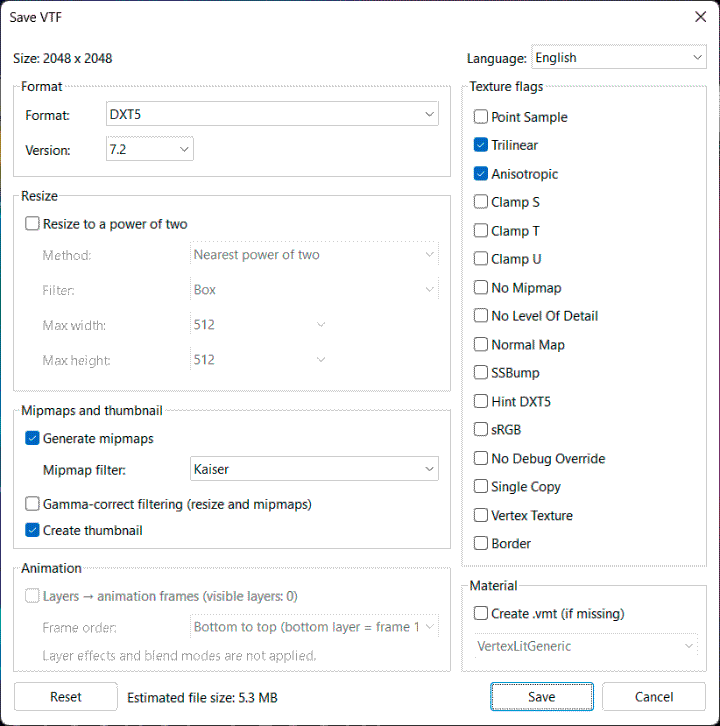
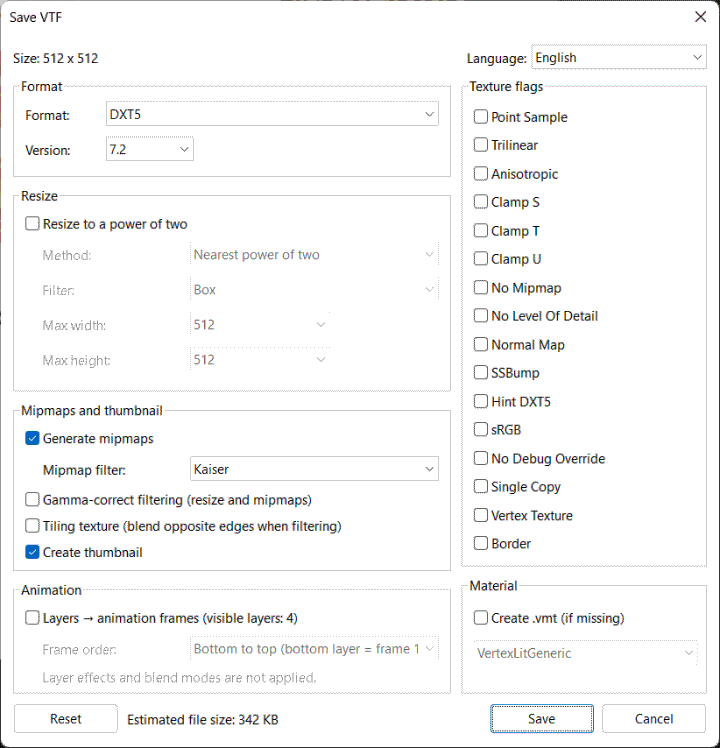
VTFBridge 1.1.1: clamp edges by default, Tiling texture option

diff --git a/src/VTFBridgeUI.cpp b/src/VTFBridgeUI.cpp
@@ -243,6 +243,7 @@ void UpdateEnabled(HWND dlg, const DialogState* st) {
     EnableWindow(GetDlgItem(dlg, IDC_MIPFILTER), mips);
     EnableWindow(GetDlgItem(dlg, IDC_LBL_MIPFILTER), mips);
     EnableWindow(GetDlgItem(dlg, IDC_GAMMA), mips || resize);
+    EnableWindow(GetDlgItem(dlg, IDC_TILING), mips || resize);
 
     // A normal map / SSBump is not a material of its own: no .vmt for it.
     bool bump = false;
@@ -284,7 +285,7 @@ void UpdateTips(DialogState* st, HWND dlg) {
             ti.uId = reinterpret_cast<UINT_PTR>(GetDlgItem(dlg, IDC_FLAG_FIRST + i));
             SendMessageW(st->tooltip, TTM_DELTOOLW, 0, reinterpret_cast<LPARAM>(&ti));
         }
-        for (int id : {IDC_VMT, IDC_SHADER}) {
+        for (int id : {IDC_VMT, IDC_SHADER, IDC_TILING}) {
             TOOLINFOW ti = {};
             ti.cbSize = sizeof(ti);
             ti.hwnd = dlg;
@@ -293,9 +294,10 @@ void UpdateTips(DialogState* st, HWND dlg) {
         }
     }
     st->tipTexts.clear();
-    st->tipTexts.reserve(kFlagCount + 2);  // no reallocation: tools point into the strings
+    st->tipTexts.reserve(kFlagCount + 3);  // no reallocation: tools point into the strings
     for (int i = 0; i < kFlagCount; ++i) AddTip(st, dlg, IDC_FLAG_FIRST + i, lang::T(FlagTipKey(kFlags[i].key).c_str()));
     AddTip(st, dlg, IDC_VMT, lang::T("tip.vmt"));
+    AddTip(st, dlg, IDC_TILING, lang::T("tip.tiling"));
     AddTip(st, dlg, IDC_SHADER, lang::T("tip.shader"));
 }
 
@@ -315,6 +317,7 @@ void ApplyTexts(HWND dlg, DialogState* st) {
     SetDlgItemTextW(dlg, IDC_MIPMAPS, lang::T("dlg.mipmaps").c_str());
     SetDlgItemTextW(dlg, IDC_LBL_MIPFILTER, lang::T("dlg.mip_filter").c_str());
     SetDlgItemTextW(dlg, IDC_GAMMA, lang::T("dlg.gamma").c_str());
+    SetDlgItemTextW(dlg, IDC_TILING, lang::T("dlg.tiling").c_str());
     SetDlgItemTextW(dlg, IDC_THUMB, lang::T("dlg.thumb").c_str());
     SetDlgItemTextW(dlg, IDC_GRP_FLAGS, lang::T("dlg.group_flags").c_str());
     SetDlgItemTextW(dlg, IDC_GRP_ANIM, lang::T("dlg.group_anim").c_str());
@@ -387,6 +390,7 @@ void Fill(HWND dlg, const DialogState* st, const vtf::Options& opt) {
     CheckDlgButton(dlg, IDC_MIPMAPS, opt.mipmaps ? BST_CHECKED : BST_UNCHECKED);
     SendDlgItemMessageW(dlg, IDC_MIPFILTER, CB_SETCURSEL, opt.mipFilter, 0);
     CheckDlgButton(dlg, IDC_GAMMA, opt.gammaFilter ? BST_CHECKED : BST_UNCHECKED);
+    CheckDlgButton(dlg, IDC_TILING, opt.tiling ? BST_CHECKED : BST_UNCHECKED);
     CheckDlgButton(dlg, IDC_THUMB, opt.thumbnail ? BST_CHECKED : BST_UNCHECKED);
     for (int i = 0; i < kFlagCount; ++i)
         CheckDlgButton(dlg, IDC_FLAG_FIRST + i, (opt.flags & kFlags[i].flag) ? BST_CHECKED : BST_UNCHECKED);
@@ -418,6 +422,7 @@ void Collect(HWND dlg, vtf::Options& opt) {
     i = ComboSel(dlg, IDC_MIPFILTER);
     if (i >= 0 && i < vtf::FILTER_COUNT) opt.mipFilter = i;
     opt.gammaFilter = IsDlgButtonChecked(dlg, IDC_GAMMA) == BST_CHECKED;
+    opt.tiling = IsDlgButtonChecked(dlg, IDC_TILING) == BST_CHECKED;
     opt.thumbnail = IsDlgButtonChecked(dlg, IDC_THUMB) == BST_CHECKED;
     opt.flags = 0;
     for (int k = 0; k < kFlagCount; ++k)
@@ -546,6 +551,7 @@ vtf::Options LoadOptions() {
     o.mipmaps = ReadDword(key, L"Mipmaps", o.mipmaps) != 0;
     o.mipFilter = int(ReadDword(key, L"MipFilter", DWORD(o.mipFilter)));
     o.gammaFilter = ReadDword(key, L"GammaMipmaps", o.gammaFilter) != 0;
+    o.tiling = ReadDword(key, L"Tiling", o.tiling) != 0;
     o.thumbnail = ReadDword(key, L"Thumbnail", o.thumbnail) != 0;
     o.flags = ReadDword(key, L"Flags", o.flags) & vtf::USER_FLAGS_MASK;
     o.frameOrder = int(ReadDword(key, L"FrameOrder", DWORD(o.frameOrder)));
@@ -594,6 +600,7 @@ void SaveOptions(const vtf::Options& o) {
     WriteDword(key, L"Mipmaps", o.mipmaps);
     WriteDword(key, L"MipFilter", DWORD(o.mipFilter));
     WriteDword(key, L"GammaMipmaps", o.gammaFilter);
+    WriteDword(key, L"Tiling", o.tiling);
     WriteDword(key, L"Thumbnail", o.thumbnail);
     WriteDword(key, L"Flags", o.flags);
     WriteDword(key, L"FrameOrder", DWORD(o.frameOrder));

diff --git a/src/Lang.cpp b/src/Lang.cpp
@@ -45,6 +45,7 @@ const Builtin kStrings[] = {
     {"dlg.mipmaps",       L"Generate mipmaps"},
     {"dlg.mip_filter",    L"Mipmap filter:"},
     {"dlg.gamma",         L"Gamma-correct filtering (resize and mipmaps)"},
+    {"dlg.tiling",        L"Tiling texture (blend opposite edges when filtering)"},
     {"dlg.thumb",         L"Create thumbnail"},
     {"dlg.group_anim",    L"Animation"},
     {"dlg.animate",       L"Layers → animation frames (visible layers: {n})"},
@@ -90,10 +91,8 @@ const Builtin kStrings[] = {
     {"tip.point_sample",      L"No smoothing between pixels: a crisp, pixelated look (pixel art, some UI)."},
     {"tip.trilinear",         L"Trilinear filtering: smooth blending between mipmap levels."},
     {"tip.anisotropic",       L"Anisotropic filtering: keeps the texture sharp when seen at a steep angle."},
-    {"tip.clamp_s",           L"Do not repeat the texture horizontally: edge pixels are stretched instead.\n"
-                              L"Also stops mipmaps and resizing from wrapping around the left/right edges."},
-    {"tip.clamp_t",           L"Do not repeat the texture vertically: edge pixels are stretched instead.\n"
-                              L"Also stops mipmaps and resizing from wrapping around the top/bottom edges."},
+    {"tip.clamp_s",           L"Do not repeat the texture horizontally: edge pixels are stretched instead."},
+    {"tip.clamp_t",           L"Do not repeat the texture vertically: edge pixels are stretched instead."},
     {"tip.clamp_u",           L"Do not repeat along the depth (volume textures only)."},
     {"tip.no_mipmap",         L"The engine uses only the full-size image. Typical for UI and HUD textures."},
     {"tip.no_lod",            L"Always load the full resolution, ignoring the texture quality setting.\n"
@@ -108,6 +107,11 @@ const Builtin kStrings[] = {
     {"tip.single_copy",       L"The engine keeps only one copy of this texture in memory."},
     {"tip.vertex_texture",    L"Texture read by vertex shaders. Rarely needed."},
     {"tip.border",            L"Clamp to a border colour instead of the edge pixels. Rarely needed."},
+    {"tip.tiling",            L"For textures that repeat (walls, floors, terrain): resizing and mipmaps blend\n"
+                              L"the left edge with the right one and the top with the bottom, so no seam appears.\n"
+                              L"Leave it off for decals, sprites, UI and anything with a transparent border:\n"
+                              L"otherwise pixels from one edge bleed into the opposite edge of the mipmaps.\n"
+                              L"Clamp S / Clamp T turn it off for their direction."},
     {"tip.vmt",               L"Also writes a material next to the .vtf. $basetexture is the path after the\n"
                               L"\"materials\" folder. Alpha adds $alphatest (cut-out) or $translucent (soft),\n"
                               L"several frames add the AnimatedTexture proxy.\n"

diff --git a/tests/edge_test.cpp b/tests/edge_test.cpp
@@ -1,0 +1,32 @@
+// edge_test.cpp - a decal-like texture (opaque stripe at the left edge, the rest
+// transparent) written with every mipmap filter, with and without "tiling", for
+// validate_edges.py: without tiling nothing may appear at the right edge.
+#include "Resample.h"
+#include "VtfWriter.h"
+
+#include <cstdio>
+#include <string>
+#include <vector>
+
+int main(int argc, char** argv) {
+    if (argc < 2) return 2;
+    const std::string dir = argv[1];
+    const uint32_t W = 512, H = 512;
+    std::vector<uint8_t> px(W * H * 4, 255);
+    for (uint32_t y = 0; y < H; ++y)
+        for (uint32_t x = 0; x < W; ++x) px[(y * W + x) * 4 + 3] = x < 16 ? 255 : 0;
+    for (int f = 0; f < vtf::FILTER_COUNT; ++f)
+        for (int tiling = 0; tiling < 2; ++tiling) {
+            vtf::Options o;
+            o.colorFormat = o.alphaFormat = vtf::FMT_BGRA8888;
+            o.mipFilter = f;
+            o.tiling = tiling != 0;
+            std::vector<uint8_t> out; std::string err;
+            if (!vtf::Write(px.data(), W, H, o, out, err)) { std::printf("FAIL: %s\n", err.c_str()); return 1; }
+            const std::string name = dir + "/" + vtf::FilterName(vtf::Filter(f)) + (tiling ? "_tile" : "_clamp") + ".vtf";
+            FILE* fp = std::fopen(name.c_str(), "wb");
+            std::fwrite(out.data(), 1, out.size(), fp);
+            std::fclose(fp);
+        }
+    return 0;
+}

diff --git a/tests/test_writer.cpp b/tests/test_writer.cpp
@@ -1,6 +1,7 @@
 // Generates VTF files in every supported format / version for validation.
 // Build: g++ -std=c++17 -O2 -I../src test_writer.cpp ../src/VtfWriter.cpp -o test_writer
 #include "VtfWriter.h"
+#include "VtfReader.h"
 
 #include <cstdio>
 #include <string>
@@ -99,6 +100,16 @@ int main(int argc, char** argv) {
         else CheckSize(out, o, "tiny"), Save(outDir + "/tiny" + std::to_string(s) + ".vtf", out);
     }
 
+    // Re-saving: "tiling" is switched off for files clamped in both directions,
+    // otherwise the last used setting stays.
+    for (uint32_t clamp : {0u, uint32_t(vtf::FLAG_CLAMPS), uint32_t(vtf::FLAG_CLAMPS | vtf::FLAG_CLAMPT)}) {
+        vtf::Options o; o.colorFormat = o.alphaFormat = vtf::FMT_DXT1; o.flags = clamp;
+        std::vector<uint8_t> file, px; std::string err; vtf::ReadInfo info;
+        if (!vtf::Write(opaque.data(), W, H, o, file, err) || !vtf::Read(file.data(), file.size(), px, info, err)) { ++failures; continue; }
+        vtf::Options base; base.tiling = true;
+        const bool expect = clamp != (vtf::FLAG_CLAMPS | vtf::FLAG_CLAMPT);
+        if (info.AsOptions(base).tiling != expect) { std::printf("FAIL AsOptions tiling, flags %x\n", clamp); ++failures; }
+    }
     failures += g_sizeErrors;
     std::printf("done, failures=%d\n", failures);
     return failures ? 1 : 0;

diff --git a/tests/validate_edges.py b/tests/validate_edges.py
@@ -1,0 +1,30 @@
+"""Without "tiling", the left-edge stripe must not leak into the right quarter of any
+mipmap (8 pixels wide and larger; on smaller mips every filter legitimately spreads
+across the whole image). With "tiling", smooth filters must reach the right edge."""
+import io, sys
+from pathlib import Path
+from srctools.vtf import VTF
+
+def right_alpha(path):
+    v = VTF.read(io.BytesIO(Path(path).read_bytes())); v.load()
+    res = []
+    for m in range(1, v.mipmap_count):
+        img = v.get(mipmap=m).to_PIL().convert("RGBA")
+        w, h = img.size
+        if w < 8: break
+        a = img.getchannel("A")
+        res.append(max(a.getpixel((x, y)) for y in range(h) for x in range(w * 3 // 4, w)))
+    return res
+
+d = Path(sys.argv[1]); bad = 0; tiled_leaks = 0
+for f in sorted(d.glob("*_clamp.vtf")):
+    name = f.stem[:-6]
+    clamp = right_alpha(f)
+    tile = right_alpha(d / f"{name}_tile.vtf")
+    print(f"{name:12} clamp max right-quarter alpha per mip: {clamp}   tiling: {tile}")
+    if max(clamp) > 0:
+        bad += 1; print(f"FAIL: {name}: stripe leaked to the right edge without tiling")
+    if max(tile) > 0: tiled_leaks += 1
+if tiled_leaks == 0:
+    bad += 1; print("FAIL: tiling has no effect")
+print("failures:", bad); sys.exit(1 if bad else 0)

diff --git a/src/VTFBridge.cpp b/src/VTFBridge.cpp
@@ -129,7 +129,9 @@ struct RevertBlob {
     int32_t  resizeMethod, resizeFilter, mipFilter;
     uint32_t maxWidth, maxHeight;
     uint8_t  mipmaps, gammaFilter, thumbnail, resize;
-    uint8_t  animate, frameOrder, reserved[2];
+    uint8_t  animate, frameOrder;
+    uint8_t  tiling;     // 0 = not stored (older blob), 1 = off, 2 = on
+    uint8_t  reserved;
 };
 constexpr uint32_t kRevertMagic = 0x58465456;  // "VTFX"
 constexpr uint32_t kRevertVersion = 3;
@@ -160,6 +162,8 @@ bool LoadRevert(FormatRecordPtr fr, vtf::Options& opt) {
     opt.thumbnail = b.thumbnail != 0;
     opt.animate = b.animate != 0;
     opt.frameOrder = b.frameOrder;
+    if (b.tiling) opt.tiling = b.tiling == 2;
+    else if ((opt.flags & vtf::FLAG_CLAMPS) && (opt.flags & vtf::FLAG_CLAMPT)) opt.tiling = false;
     opt = SanitizeOptions(opt);
     return true;
 }
@@ -191,6 +195,7 @@ void StoreRevert(FormatRecordPtr fr, const vtf::Options& opt) {
     b.thumbnail = opt.thumbnail;
     b.animate = opt.animate;
     b.frameOrder = uint8_t(opt.frameOrder);
+    b.tiling = opt.tiling ? 2 : 1;
     Ptr p = hp->lockProc(fr->revertInfo, false);
     if (!p) return;
     std::memcpy(p, &b, sizeof(b));

diff --git a/src/VtfWriter.cpp b/src/VtfWriter.cpp
@@ -231,8 +231,10 @@ void RenormalizeNormals(FloatImage& img) {
 std::vector<Image> BuildChain(const uint8_t* rgba, uint32_t width, uint32_t height, const Options& opt) {
     // Repeat across the edges unless the texture is clamped in that direction:
     // mips/resizes of tiling textures then stay seamless.
-    const bool wrapX = !(opt.flags & FLAG_CLAMPS);
-    const bool wrapY = !(opt.flags & FLAG_CLAMPT);
+    // Edges: clamp unless the user marked the texture as tiling (decals and
+    // sprites must not get pixels from the opposite edge in their mipmaps).
+    const bool wrapX = opt.tiling && !(opt.flags & FLAG_CLAMPS);
+    const bool wrapY = opt.tiling && !(opt.flags & FLAG_CLAMPT);
     // Normal maps (not SSBump: its three vectors are not unit length) hold
     // directions, not colours: no gamma, renormalised after every filter step.
     const bool normal = (opt.flags & FLAG_NORMAL) && !(opt.flags & FLAG_SSBUMP);

diff --git a/src/VtfWriter.h b/src/VtfWriter.h
@@ -94,6 +94,8 @@ struct Options {
     // Plug-in level (not used by the encoder itself).
     bool     animate        = false;      // save visible layers as animation frames
     int      frameOrder     = 0;          // FRAME_ORDER_*
+    bool     tiling         = false;      // wrap across opposite edges when filtering (resize, mipmaps);
+                                          // Clamp S / Clamp T still force clamping on their axis
     bool     vmt            = false;      // also write a .vmt next to the .vtf (if none exists)
     int      vmtShader      = 0;          // vmt::Shader
 };

diff --git a/src/Version.h b/src/Version.h
@@ -4,8 +4,8 @@
 
 #define VTFBRIDGE_VERSION_MAJOR 1
 #define VTFBRIDGE_VERSION_MINOR 1
-#define VTFBRIDGE_VERSION_PATCH 0
-#define VTFBRIDGE_VERSION_STR   "1.1.0"
+#define VTFBRIDGE_VERSION_PATCH 1
+#define VTFBRIDGE_VERSION_STR   "1.1.1"
 
 // Project page (shown as a link in "About").
 #define VTFBRIDGE_URL           "https://github.com/haos9cr/VTFBridge"

diff --git a/src/VtfReader.cpp b/src/VtfReader.cpp
@@ -298,6 +298,7 @@ Options ReadInfo::AsOptions(const Options& base) const {
     o.mipmaps = mipCount > 1;
     o.thumbnail = hasThumbnail;
     o.flags = flags & USER_FLAGS_MASK;
+    if ((flags & FLAG_CLAMPS) && (flags & FLAG_CLAMPT)) o.tiling = false;  // clamped both ways: not a tiling texture
     o.animate = frames > 1;
     return o;
 }

diff --git a/src/resource.h b/src/resource.h
@@ -24,6 +24,7 @@
 #define IDC_VMT                1029
 #define IDC_SHADER             1030
 #define IDC_FILESIZE           1031
+#define IDC_TILING             1032
 
 // Static texts / group boxes whose captions are localised at runtime.
 #define IDC_LBL_LANG           1040

diff --git a/README.ru.md b/README.ru.md
@@ -81,8 +81,12 @@ Gaussian и Cubic — самые мягкие; Sinc, Catmull-Rom и оконны
 могут давать лёгкий ореол. *Гамма-корректная фильтрация* сохраняет яркость тонких светлых и тёмных
 деталей в мипах; для карт нормалей, масок и прочих «данных» её лучше не включать.
 
-Края: если не стоит флаг **Clamp S / Clamp T**, текстура при фильтрации считается повторяющейся,
-поэтому мипмапы тайлящихся текстур остаются бесшовными.
+Края: по умолчанию при ресайзе и фильтрации мипмапов края не «заворачиваются», как в VTFEdit, —
+ничего не просачивается с противоположного края (то, что нужно для декалей, спрайтов, интерфейса).
+Для повторяющихся текстур (стены, пол, земля) включите **«Тайловая текстура»**: тогда левый край
+смешивается с правым, верхний — с нижним, и мипмапы остаются бесшовными. Флаги *Clamp S* / *Clamp T*
+отключают это для своего направления. Настройка запоминается; при пересохранении VTF с флагами
+*Clamp S* и *Clamp T* она выключается.
 
 ### Анимация
 
